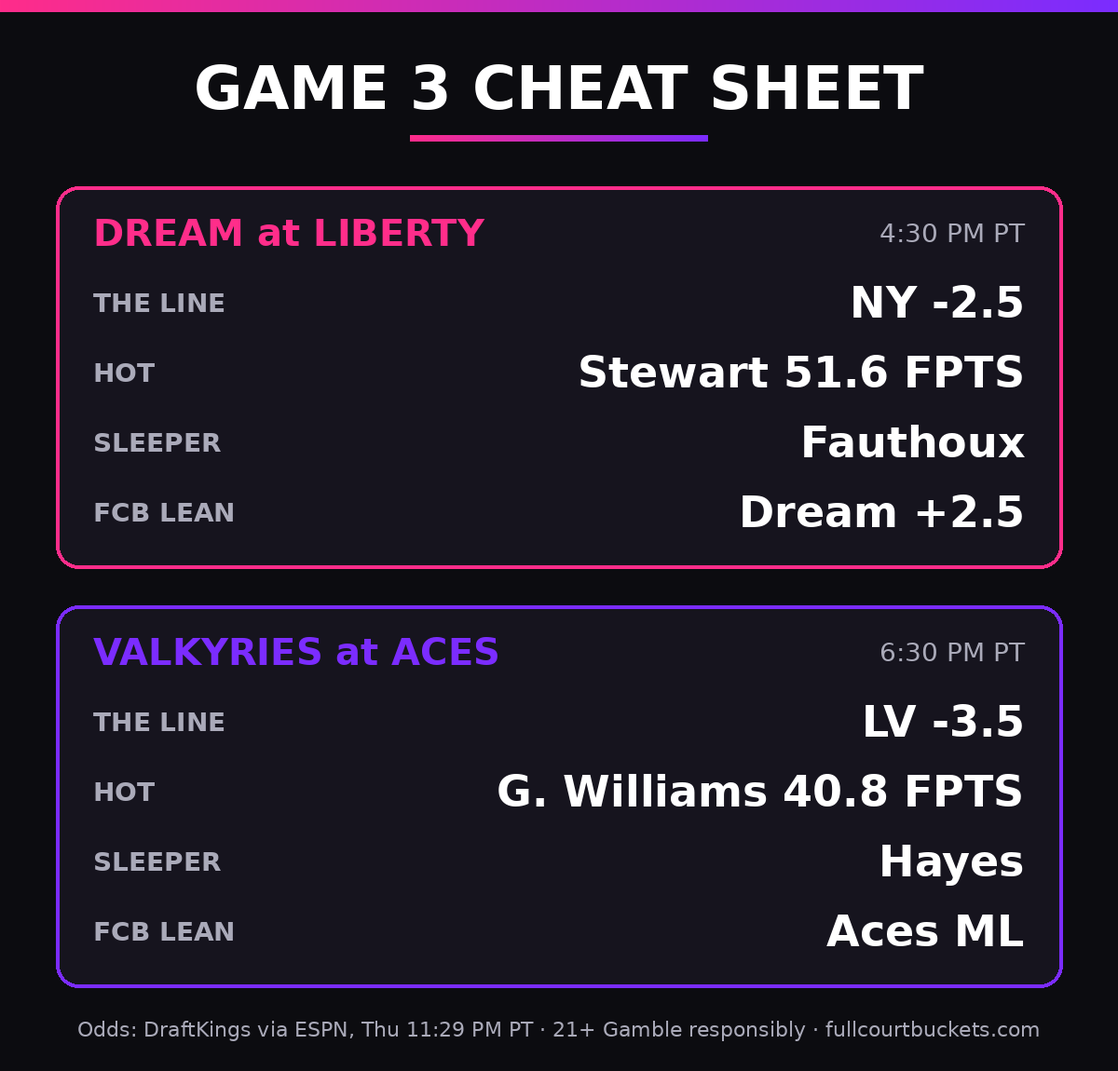
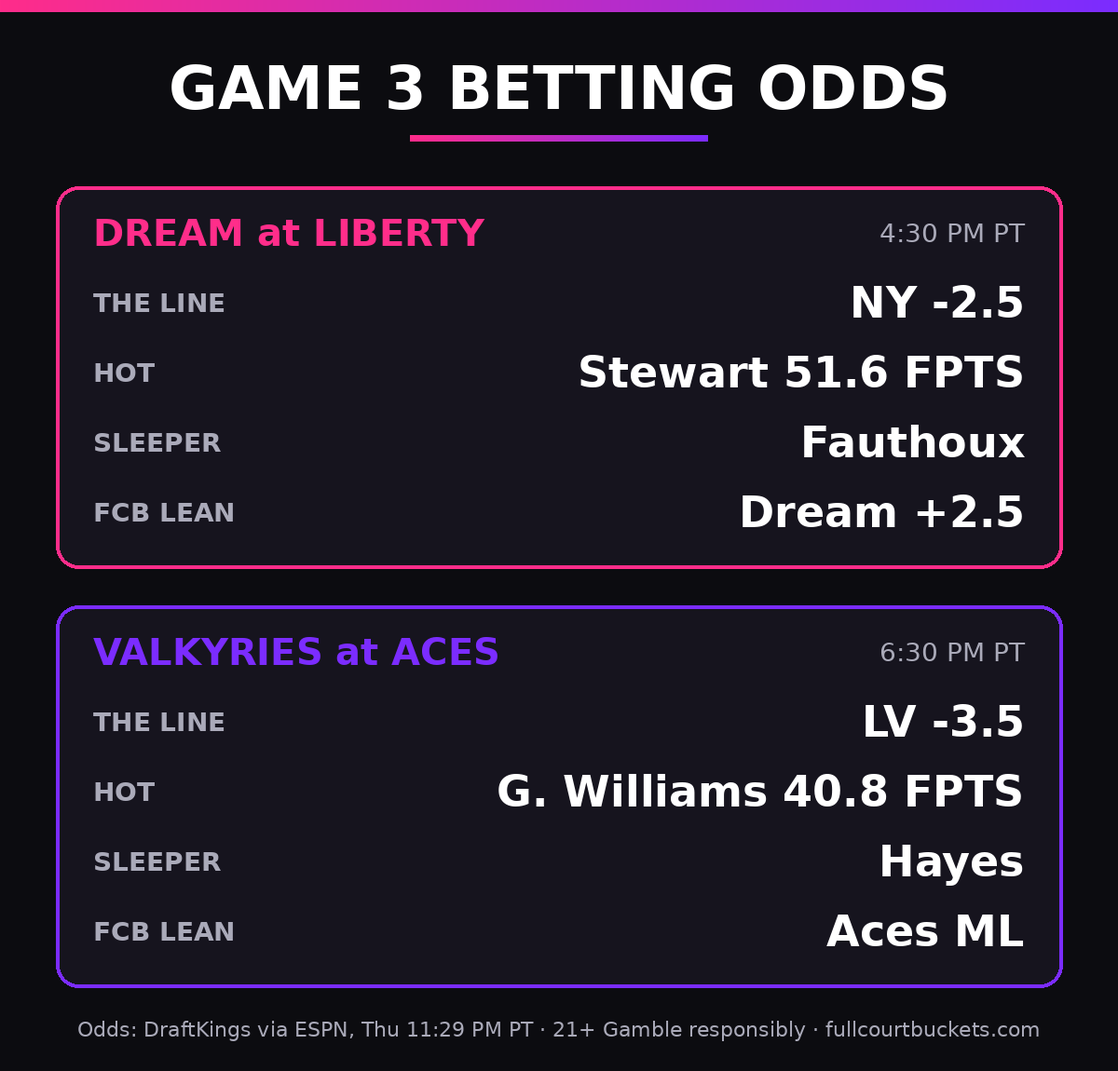
Retitle the Game 3 board to Betting Odds and split the bettors section around it.
New board bytes (same file name), regenerated webp, and paragraph, board, paragraph. Odds stay dated as of Thu Oct 8, 2026, 11:29 PM PT with 'lines may move', both ESPN game links and the 21+ / 1-800-GAMBLER line. Review card updated.

Changed region(s): [[0.1542, 0.0609, 0.8633, 0.1217]]

diff --git a/news/semis-game-3-preview/index.html b/news/semis-game-3-preview/index.html
@@ -51,7 +51,7 @@
 <header><div class="shell nav"><a class="brand" href="/"><picture><source srcset="/logo.webp" type="image/webp"><img src="/logo.png" alt="Full Court Buckets" width="760" height="507" decoding="async" loading="lazy"></picture></a><nav class="site-nav" aria-label="Main"><button type="button" class="site-nav-toggle" aria-expanded="false" aria-controls="site-nav-menu"><span class="site-nav-bars" aria-hidden="true"></span><span class="site-nav-toggle-label">Menu</span></button><ul id="site-nav-menu"><li><a href="/">Home</a></li><li class="site-nav-branch"><a href="/wnba/">Players</a><button type="button" class="site-nav-subtoggle" aria-expanded="false" aria-controls="site-nav-sub-players" data-section="Players"><span class="site-nav-chevron" aria-hidden="true"></span><span class="site-nav-subtoggle-label">Show Players menu</span></button><ul id="site-nav-sub-players"><li><a href="/wnba/">Player index, A to Z</a></li><li><a href="/wnba/aja-wilson/">A&#x27;ja Wilson</a></li><li><a href="/wnba/caitlin-clark/">Caitlin Clark</a></li><li><a href="/wnba/angel-reese/">Angel Reese</a></li><li><a href="/wnba/paige-bueckers/">Paige Bueckers</a></li><li><a href="/wnba/breanna-stewart/">Breanna Stewart</a></li><li><a href="/wnba/sabrina-ionescu/">Sabrina Ionescu</a></li></ul></li><li class="site-nav-branch"><a href="/wnba/teams/">Teams</a><button type="button" class="site-nav-subtoggle" aria-expanded="false" aria-controls="site-nav-sub-teams" data-section="Teams"><span class="site-nav-chevron" aria-hidden="true"></span><span class="site-nav-subtoggle-label">Show Teams menu</span></button><ul id="site-nav-sub-teams"><li><a href="/wnba/teams/atlanta-dream/">Atlanta Dream</a></li><li><a href="/wnba/teams/chicago-sky/">Chicago Sky</a></li><li><a href="/wnba/teams/connecticut-sun/">Connecticut Sun</a></li><li><a href="/wnba/teams/dallas-wings/">Dallas Wings</a></li><li><a href="/wnba/teams/golden-state-valkyries/">Golden State Valkyries</a></li><li><a href="/wnba/teams/indiana-fever/">Indiana Fever</a></li><li><a href="/wnba/teams/las-vegas-aces/">Las Vegas Aces</a></li><li><a href="/wnba/teams/los-angeles-sparks/">Los Angeles Sparks</a></li><li><a href="/wnba/teams/minnesota-lynx/">Minnesota Lynx</a></li><li><a href="/wnba/teams/new-york-liberty/">New York Liberty</a></li><li><a href="/wnba/teams/phoenix-mercury/">Phoenix Mercury</a></li><li><a href="/wnba/teams/portland-fire/">Portland Fire</a></li><li><a href="/wnba/teams/seattle-storm/">Seattle Storm</a></li><li><a href="/wnba/teams/toronto-tempo/">Toronto Tempo</a></li><li><a href="/wnba/teams/washington-mystics/">Washington Mystics</a></li></ul></li><li><a href="/standings/">Standings</a></li><li><a href="/news/">News</a></li><li class="site-nav-branch"><a href="/about/">About</a><button type="button" class="site-nav-subtoggle" aria-expanded="false" aria-controls="site-nav-sub-about" data-section="About"><span class="site-nav-chevron" aria-hidden="true"></span><span class="site-nav-subtoggle-label">Show About menu</span></button><ul id="site-nav-sub-about"><li><a href="/contact/">Contact</a></li></ul></li></ul></nav><a class="watch-btn nav-watch" href="/#latest">Latest Stories</a></div></header>
 <div class="ticker"><div class="shell"><div class="ticker-label">Now</div><div class="ticker-text">Game 3s Friday. Dream lead Liberty 2-0. Valkyries lead Aces 2-0.</div></div></div>
 <main class="shell article-wrap">
-<nav class="breadcrumbs" aria-label="Breadcrumb"><a href="/">Home</a><span aria-hidden="true">/</span><a href="/news/">News</a><span aria-hidden="true">/</span><span>Semis Game 3 Preview: Can the Liberty and Aces Do What No WNBA Team Has Done?</span></nav><article class="article"><div class="meta-row"><span class="cat">WNBA Playoffs</span><span class="divider"></span><span>Full Court Buckets</span></div><h1>Semis Game 3 Preview: Can the Liberty and Aces Do What No WNBA Team Has Done?</h1><figure class="lead-photo"><img src="/images/articles/semis-game-3-preview/hero-1200.webp" alt="Jordin Canada of the Atlanta Dream lines up a free throw at Target Center in Minneapolis" style="object-position:center 25%" srcset="/images/articles/semis-game-3-preview/hero-1200.webp 1200w, /images/articles/semis-game-3-preview/hero-2x.webp 2000w" sizes="(max-width: 900px) calc(94vw - 40px), 842px" width="1200" height="675" decoding="async" fetchpriority="high"><figcaption>Jordin Canada with the Dream at Target Center on May 27, 2026, not from this series. Photo: <a href="https://commons.wikimedia.org/wiki/File:260527_Lynx_Dream_JohnMc210_(55298398176).jpg" target="_blank" rel="noopener">John Mac</a> (<a href="https://creativecommons.org/licenses/by-sa/4.0/" target="_blank" rel="noopener">CC BY-SA 4.0</a>)</figcaption></figure><div class="byline-row"><a class="byline" href="/authors/ryan-moalemi/"><picture><source srcset="/images/authors/ryan-moalemi-photo-byline.webp" type="image/webp"><img src="/images/authors/ryan-moalemi-photo-byline.jpg?v=d51e90ea6c01" alt="Ryan Moalemi" width="80" height="80" decoding="async" loading="lazy"></picture><span>By Ryan Moalemi</span></a><time class="article-date" datetime="2026-10-09">October 9, 2026</time></div><p class="lead">The <a class="inline-link" href="/wnba/teams/new-york-liberty/" target="_blank" rel="noopener">New York Liberty</a> have won more quarters than the <a class="inline-link" href="/wnba/teams/atlanta-dream/" target="_blank" rel="noopener">Atlanta Dream</a> in this series, four to two, and they're still down 0-2 (<a href="https://www.espn.com/wnba/boxscore/_/gameId/401918295" target="_blank" rel="noopener">Game 1</a>, <a href="https://www.espn.com/wnba/boxscore/_/gameId/401918297" target="_blank" rel="noopener">Game 2</a>). One column in the box score explains it, and it's the same column that decides whether Brooklyn sees a Game 4.</p><p>Both semifinal Game 3s are Friday, and the stakes are simple. Teams that take a 2-0 lead in a best-of-five WNBA series are <a href="https://www.espn.com/wnba/story/_/id/50128556/2026-wnba-playoffs-semifinals-game-2-scores-analysis-keys" target="_blank" rel="noopener">19-0 all time</a>. The Liberty and the <a class="inline-link" href="/wnba/teams/las-vegas-aces/" target="_blank" rel="noopener">Las Vegas Aces</a> are both trying to be the first team to come back.</p><h2 class="section-title">Dream at Liberty: Friday, 4:30 PM PT, Barclays Center, ESPN2</h2><figure class="stat-board"><picture><source srcset="/images/articles/semis-game-3-preview/board-dream-liberty-series.webp" type="image/webp"><img src="/images/articles/semis-game-3-preview/board-dream-liberty-series.png" alt="Dream vs Liberty, Games 1 and 2 combined: turnovers 22 to 38, points off turnovers 60 to 24, offensive rebounds 20 to 12, field goal attempts 155 to 129, free throws made 39 to 31, fast-break points 29 to 8, bench points 42 to 29. New York shot 48.8% to Atlanta&#x27;s 42.6%." width="1200" height="1234" decoding="async" loading="lazy"></picture><figcaption>Dream vs Liberty, Games 1 and 2 combined. Turnovers include team turnovers. Source: Full Court Buckets game data, checked against ESPN box scores.</figcaption></figure><p><strong>What decided Games 1 and 2.</strong> Ball security, both nights. New York has turned it over 38 times in two games, counting team turnovers. Atlanta has 22. The Dream have scored 60 points off those giveaways while the Liberty have scored 24 (<a href="https://www.espn.com/wnba/boxscore/_/gameId/401918295" target="_blank" rel="noopener">G1 box</a>, <a href="https://www.espn.com/wnba/boxscore/_/gameId/401918297" target="_blank" rel="noopener">G2 box</a>). That's a 36-point swing in a series Atlanta leads by a combined 13.</p><p>Add 20 offensive boards to New York's 12 and Atlanta has taken 155 shots to New York's 129. So yes, the Liberty are shooting 48.8% to Atlanta's 42.6%. It doesn't matter when the other team gets 26 extra looks. The Dream are also up 29-8 in fast-break points, which is what happens when your misses turn into layups the other way.</p><p><strong>The key matchup.</strong> <a class="inline-link" href="/wnba/angel-reese/" target="_blank" rel="noopener">Angel Reese</a> against that New York frontcourt. Reese is plus-18 in the series, the best mark on either team, with <a class="inline-link" href="/wnba/jordin-canada/" target="_blank" rel="noopener">Jordin Canada</a> at plus-17 and <a class="inline-link" href="/wnba/naz-hillmon/" target="_blank" rel="noopener">Naz Hillmon</a> at plus-16. On the other side, <a class="inline-link" href="/wnba/marine-fauthoux/" target="_blank" rel="noopener">Marine Fauthoux</a> is the only Liberty player with a positive plus-minus (plus-6). Starters <a class="inline-link" href="/wnba/leonie-fiebich/" target="_blank" rel="noopener">Leonie Fiebich</a> and <a class="inline-link" href="/wnba/pauline-astier/" target="_blank" rel="noopener">Pauline Astier</a> are both minus-10.</p><p>New York's stars are scoring. <a class="inline-link" href="/wnba/breanna-stewart/" target="_blank" rel="noopener">Breanna Stewart</a> dropped 35 in Game 2 and <a class="inline-link" href="/wnba/sabrina-ionescu/" target="_blank" rel="noopener">Sabrina Ionescu</a> had 27 in Game 1. But Ionescu also had 5 turnovers in Game 1, and <a class="inline-link" href="/wnba/jonquel-jones/" target="_blank" rel="noopener">Jonquel Jones</a> had 6 in Game 2.</p><p>Atlanta's bench has outscored New York's 42-29, and 23 of those came from <a class="inline-link" href="/wnba/dewanna-bonner/" target="_blank" rel="noopener">DeWanna Bonner</a> in Game 1. And they did most of this without their leading scorer. <a class="inline-link" href="/wnba/allisha-gray/" target="_blank" rel="noopener">Allisha Gray</a> hurt her left shooting hand in Game 1, played 11 minutes and missed Game 2. As of Thursday evening, she was <a href="https://www.espn.com/wnba/story/_/id/50135364/dream-guard-allisha-gray-questionable-game-3" target="_blank" rel="noopener">listed as questionable</a> for Game 3.</p><p><strong>What each team has to do.</strong> New York needs single-digit turnovers. That's it. Shoot 48% with 10 giveaways and this is a series again. Atlanta needs to keep crashing and keep running, because the half-court numbers favor New York.</p><p><strong>The pick: Dream win and head to the Finals.</strong> New York has given it away at least 17 times in both games, and that's not a shooting slump that flips on the flight home. It's a habit. Get Gray back even for 20 minutes and Atlanta is done in three.</p><h2 class="section-title">Valkyries at Aces: Friday, 6:30 PM PT, Michelob ULTRA Arena, Peacock and NBCSN</h2><figure class="stat-board"><picture><source srcset="/images/articles/semis-game-3-preview/board-valkyries-aces-series.webp" type="image/webp"><img src="/images/articles/semis-game-3-preview/board-valkyries-aces-series.png" alt="Valkyries vs Aces, Games 1 and 2 combined: offensive rebounds 27 to 8, total rebounds 82 to 50, bench points 61 to 21, points in the paint 54 to 42, fast-break points 16 to 3, free throws made 37 to 34, turnovers 29 to 18. First halves Valkyries plus 14, second halves Aces plus 1." width="1200" height="1234" decoding="async" loading="lazy"></picture><figcaption>Valkyries vs Aces, Games 1 and 2 combined. Turnovers include team turnovers. Source: Full Court Buckets game data, checked against ESPN box scores.</figcaption></figure><p><strong>What decided Games 1 and 2.</strong> The glass. The <a class="inline-link" href="/wnba/teams/golden-state-valkyries/" target="_blank" rel="noopener">Golden State Valkyries</a> have 27 offensive rebounds to Vegas's 8, and they've outrebounded the Aces 82-50 (<a href="https://www.espn.com/wnba/boxscore/_/gameId/401918296" target="_blank" rel="noopener">G1 box</a>, <a href="https://www.espn.com/wnba/boxscore/_/gameId/401918298" target="_blank" rel="noopener">G2 box</a>). <a class="inline-link" href="/wnba/kiah-stokes/" target="_blank" rel="noopener">Kiah Stokes</a> hasn't scored a point in this series and still has 21 rebounds.</p><p>Then there's the bench. Golden State's reserves have outscored Vegas's 61-21. <a class="inline-link" href="/wnba/tiffany-hayes/" target="_blank" rel="noopener">Tiffany Hayes</a> has 24 of those, including 21 in 17 minutes in Game 2. <a class="inline-link" href="/wnba/janelle-salaun/" target="_blank" rel="noopener">Janelle Salaun</a> is plus-18 in just 10 minutes, and <a class="inline-link" href="/wnba/kaitlyn-chen/" target="_blank" rel="noopener">Kaitlyn Chen</a> is plus-11.</p><p>Here's the stat that should scare Golden State. The Valkyries have turned it over 29 times to Vegas's 18, counting team turnovers. They're winning anyway because Vegas hasn't punished it, scoring 24 points off those turnovers to Golden State's 27.</p><figure class="stat-board"><picture><source srcset="/images/articles/semis-game-3-preview/board-quarter-margins.webp" type="image/webp"><img src="/images/articles/semis-game-3-preview/board-quarter-margins.png" alt="Quarter-by-quarter winning margins in Games 1 and 2 of both semifinals. Dream vs Liberty: Game 1 Liberty plus 3, even, Dream plus 17, Liberty plus 4. Game 2 even, Dream plus 2, Liberty plus 1, Liberty plus 1, Dream plus 3 in overtime. Valkyries vs Aces: Game 1 Valkyries plus 4, Aces plus 1, Valkyries plus 5, Valkyries plus 3. Game 2 Valkyries plus 8, Valkyries plus 3, even, Aces plus 9." width="1200" height="1090" decoding="async" loading="lazy"></picture><figcaption>Who won each quarter in Games 1 and 2. Source: Full Court Buckets game data, checked against ESPN box scores.</figcaption></figure><p><strong>The key matchup.</strong> Golden State's starts against Vegas's finishes. The Valkyries are plus-14 in first halves. In second halves, the Aces are plus-1. Golden State won the first quarter of Game 2 by 8, and Vegas answered by winning the fourth by 9 (<a href="https://www.espn.com/wnba/boxscore/_/gameId/401918298" target="_blank" rel="noopener">G2 box</a>).</p><p><a class="inline-link" href="/wnba/aja-wilson/" target="_blank" rel="noopener">A'ja Wilson</a> has 48 points in two games and is still minus-11. <a class="inline-link" href="/wnba/chelsea-gray/" target="_blank" rel="noopener">Chelsea Gray</a> is also minus-11. The Aces' best plus-minus belongs to <a class="inline-link" href="/wnba/kalani-brown/" target="_blank" rel="noopener">Kalani Brown</a> at plus-7, while <a class="inline-link" href="/wnba/brianna-turner/" target="_blank" rel="noopener">Brianna Turner</a> is minus-16 and <a class="inline-link" href="/wnba/kierstan-bell/" target="_blank" rel="noopener">Kierstan Bell</a> is minus-15.</p><p>Injuries matter here. As of Thursday evening, ESPN listed <a class="inline-link" href="/wnba/jewell-loyd/" target="_blank" rel="noopener">Jewell Loyd</a> and <a class="inline-link" href="/wnba/stephanie-talbot/" target="_blank" rel="noopener">Stephanie Talbot</a> as day-to-day with left leg injuries (<a href="https://www.espn.com/wnba/game/_/gameId/401918300" target="_blank" rel="noopener">ESPN game page</a>). Loyd didn't play in Game 2. <a class="inline-link" href="/wnba/dana-evans/" target="_blank" rel="noopener">Dana Evans</a> wasn't on ESPN's injury list when we checked, and she played 18 minutes in Game 2.</p><p><strong>What each team has to do.</strong> Vegas has to box out. You can't give up 17 offensive rebounds like they did in Game 1 and survive. Golden State has to clean up the turnovers and get the same punch from <a class="inline-link" href="/wnba/gabby-williams/" target="_blank" rel="noopener">Gabby Williams</a>, who has 45 points in two games, and <a class="inline-link" href="/wnba/kayla-thornton/" target="_blank" rel="noopener">Kayla Thornton</a>.</p><p><strong>The pick: Aces win Game 3.</strong> The <a href="https://apnews.com/article/valkyries-aces-wnba-semifinals-84c8603ed5268f8045e595c2ea0f4a32" target="_blank" rel="noopener">defending champs</a> won the second half of this series, swept the <a href="https://www.espn.com/wnba/game/_/gameId/401918300" target="_blank" rel="noopener">regular-season meetings</a> 3-0, and get Michelob ULTRA Arena behind them. In Game 2 they outshot Golden State 44% to 41% and had the ball down two at the end. If Wilson and Gray stop digging out of holes, Vegas extends this. If the Aces lose the glass 52-25 like they did in Game 1, nothing else matters.</p><h2 class="section-title">For the bettors and fantasy players</h2><figure class="stat-board"><picture><source srcset="/images/articles/semis-game-3-preview/board-game3-cheat-sheet.webp" type="image/webp"><img src="/images/articles/semis-game-3-preview/board-game3-cheat-sheet.png" alt="Game 3 cheat sheet. Dream at Liberty, 4:30 PM PT: the line is Liberty minus 2.5, the hot fantasy play is Breanna Stewart at 51.6 DraftKings fantasy points per game, the sleeper is Marine Fauthoux, and the Full Court Buckets lean is Dream plus 2.5. Valkyries at Aces, 6:30 PM PT: the line is Aces minus 3.5, the hot play is Gabby Williams at 40.8 fantasy points per game, the sleeper is Tiffany Hayes, and the lean is the Aces on the moneyline." decoding="async" loading="lazy" width="1200" height="1150"></picture><figcaption>DraftKings odds as listed on ESPN, as of Thursday, Oct. 8, 2026, 11:29 PM PT. Lines may move. Fantasy points per game use DraftKings scoring on Games 1 and 2 from our box scores, checked against ESPN. Leans are opinions. 21+. Gamble responsibly. 1-800-GAMBLER.</figcaption></figure><p>The books flipped both series, with the Liberty favored by 2.5 and the Aces by 3.5 (DraftKings via ESPN for <a href="https://www.espn.com/wnba/game/_/gameId/401918299" target="_blank" rel="noopener">Dream-Liberty</a> and <a href="https://www.espn.com/wnba/game/_/gameId/401918300" target="_blank" rel="noopener">Valkyries-Aces</a>, as of Thursday, Oct. 8, at 11:29 PM PT; lines may move), even though the Dream and Valkyries are both 2-0 against the spread. Stewart is the hottest fantasy play at 51.6 DraftKings points a game. My sleepers: Fauthoux and Hayes. My leans, just opinions: Dream +2.5 and Aces moneyline. Gray was questionable as of Thursday night. 21+. Gamble responsibly. 1-800-GAMBLER.</p><p class="box-score">Box scores: <a href="https://www.espn.com/wnba/boxscore/_/gameId/401918295" target="_blank" rel="noopener">Dream-Liberty Game 1</a>, <a href="https://www.espn.com/wnba/boxscore/_/gameId/401918297" target="_blank" rel="noopener">Game 2</a>; <a href="https://www.espn.com/wnba/boxscore/_/gameId/401918296" target="_blank" rel="noopener">Valkyries-Aces Game 1</a>, <a href="https://www.espn.com/wnba/boxscore/_/gameId/401918298" target="_blank" rel="noopener">Game 2</a> (ESPN).</p><p class="how-made">How this story was made: Ryan Moalemi picked the story and the angle. Full Court Buckets gathers its own game data and verifies it against official box scores. AI tools drafted it from that data and the sources linked above so it could post the same night, then Ryan reviewed and edited it before publishing. <a href="/how-we-make-full-court-buckets/" target="_blank" rel="noopener">How we make Full Court Buckets</a></p><p class="brand-sign">Full Court Buckets &middot; WNBA News. Analysis. Commentary.</p></article>
+<nav class="breadcrumbs" aria-label="Breadcrumb"><a href="/">Home</a><span aria-hidden="true">/</span><a href="/news/">News</a><span aria-hidden="true">/</span><span>Semis Game 3 Preview: Can the Liberty and Aces Do What No WNBA Team Has Done?</span></nav><article class="article"><div class="meta-row"><span class="cat">WNBA Playoffs</span><span class="divider"></span><span>Full Court Buckets</span></div><h1>Semis Game 3 Preview: Can the Liberty and Aces Do What No WNBA Team Has Done?</h1><figure class="lead-photo"><img src="/images/articles/semis-game-3-preview/hero-1200.webp" alt="Jordin Canada of the Atlanta Dream lines up a free throw at Target Center in Minneapolis" style="object-position:center 25%" srcset="/images/articles/semis-game-3-preview/hero-1200.webp 1200w, /images/articles/semis-game-3-preview/hero-2x.webp 2000w" sizes="(max-width: 900px) calc(94vw - 40px), 842px" width="1200" height="675" decoding="async" fetchpriority="high"><figcaption>Jordin Canada with the Dream at Target Center on May 27, 2026, not from this series. Photo: <a href="https://commons.wikimedia.org/wiki/File:260527_Lynx_Dream_JohnMc210_(55298398176).jpg" target="_blank" rel="noopener">John Mac</a> (<a href="https://creativecommons.org/licenses/by-sa/4.0/" target="_blank" rel="noopener">CC BY-SA 4.0</a>)</figcaption></figure><div class="byline-row"><a class="byline" href="/authors/ryan-moalemi/"><picture><source srcset="/images/authors/ryan-moalemi-photo-byline.webp" type="image/webp"><img src="/images/authors/ryan-moalemi-photo-byline.jpg?v=d51e90ea6c01" alt="Ryan Moalemi" width="80" height="80" decoding="async" loading="lazy"></picture><span>By Ryan Moalemi</span></a><time class="article-date" datetime="2026-10-09">October 9, 2026</time></div><p class="lead">The <a class="inline-link" href="/wnba/teams/new-york-liberty/" target="_blank" rel="noopener">New York Liberty</a> have won more quarters than the <a class="inline-link" href="/wnba/teams/atlanta-dream/" target="_blank" rel="noopener">Atlanta Dream</a> in this series, four to two, and they're still down 0-2 (<a href="https://www.espn.com/wnba/boxscore/_/gameId/401918295" target="_blank" rel="noopener">Game 1</a>, <a href="https://www.espn.com/wnba/boxscore/_/gameId/401918297" target="_blank" rel="noopener">Game 2</a>). One column in the box score explains it, and it's the same column that decides whether Brooklyn sees a Game 4.</p><p>Both semifinal Game 3s are Friday, and the stakes are simple. Teams that take a 2-0 lead in a best-of-five WNBA series are <a href="https://www.espn.com/wnba/story/_/id/50128556/2026-wnba-playoffs-semifinals-game-2-scores-analysis-keys" target="_blank" rel="noopener">19-0 all time</a>. The Liberty and the <a class="inline-link" href="/wnba/teams/las-vegas-aces/" target="_blank" rel="noopener">Las Vegas Aces</a> are both trying to be the first team to come back.</p><h2 class="section-title">Dream at Liberty: Friday, 4:30 PM PT, Barclays Center, ESPN2</h2><figure class="stat-board"><picture><source srcset="/images/articles/semis-game-3-preview/board-dream-liberty-series.webp" type="image/webp"><img src="/images/articles/semis-game-3-preview/board-dream-liberty-series.png" alt="Dream vs Liberty, Games 1 and 2 combined: turnovers 22 to 38, points off turnovers 60 to 24, offensive rebounds 20 to 12, field goal attempts 155 to 129, free throws made 39 to 31, fast-break points 29 to 8, bench points 42 to 29. New York shot 48.8% to Atlanta&#x27;s 42.6%." width="1200" height="1234" decoding="async" loading="lazy"></picture><figcaption>Dream vs Liberty, Games 1 and 2 combined. Turnovers include team turnovers. Source: Full Court Buckets game data, checked against ESPN box scores.</figcaption></figure><p><strong>What decided Games 1 and 2.</strong> Ball security, both nights. New York has turned it over 38 times in two games, counting team turnovers. Atlanta has 22. The Dream have scored 60 points off those giveaways while the Liberty have scored 24 (<a href="https://www.espn.com/wnba/boxscore/_/gameId/401918295" target="_blank" rel="noopener">G1 box</a>, <a href="https://www.espn.com/wnba/boxscore/_/gameId/401918297" target="_blank" rel="noopener">G2 box</a>). That's a 36-point swing in a series Atlanta leads by a combined 13.</p><p>Add 20 offensive boards to New York's 12 and Atlanta has taken 155 shots to New York's 129. So yes, the Liberty are shooting 48.8% to Atlanta's 42.6%. It doesn't matter when the other team gets 26 extra looks. The Dream are also up 29-8 in fast-break points, which is what happens when your misses turn into layups the other way.</p><p><strong>The key matchup.</strong> <a class="inline-link" href="/wnba/angel-reese/" target="_blank" rel="noopener">Angel Reese</a> against that New York frontcourt. Reese is plus-18 in the series, the best mark on either team, with <a class="inline-link" href="/wnba/jordin-canada/" target="_blank" rel="noopener">Jordin Canada</a> at plus-17 and <a class="inline-link" href="/wnba/naz-hillmon/" target="_blank" rel="noopener">Naz Hillmon</a> at plus-16. On the other side, <a class="inline-link" href="/wnba/marine-fauthoux/" target="_blank" rel="noopener">Marine Fauthoux</a> is the only Liberty player with a positive plus-minus (plus-6). Starters <a class="inline-link" href="/wnba/leonie-fiebich/" target="_blank" rel="noopener">Leonie Fiebich</a> and <a class="inline-link" href="/wnba/pauline-astier/" target="_blank" rel="noopener">Pauline Astier</a> are both minus-10.</p><p>New York's stars are scoring. <a class="inline-link" href="/wnba/breanna-stewart/" target="_blank" rel="noopener">Breanna Stewart</a> dropped 35 in Game 2 and <a class="inline-link" href="/wnba/sabrina-ionescu/" target="_blank" rel="noopener">Sabrina Ionescu</a> had 27 in Game 1. But Ionescu also had 5 turnovers in Game 1, and <a class="inline-link" href="/wnba/jonquel-jones/" target="_blank" rel="noopener">Jonquel Jones</a> had 6 in Game 2.</p><p>Atlanta's bench has outscored New York's 42-29, and 23 of those came from <a class="inline-link" href="/wnba/dewanna-bonner/" target="_blank" rel="noopener">DeWanna Bonner</a> in Game 1. And they did most of this without their leading scorer. <a class="inline-link" href="/wnba/allisha-gray/" target="_blank" rel="noopener">Allisha Gray</a> hurt her left shooting hand in Game 1, played 11 minutes and missed Game 2. As of Thursday evening, she was <a href="https://www.espn.com/wnba/story/_/id/50135364/dream-guard-allisha-gray-questionable-game-3" target="_blank" rel="noopener">listed as questionable</a> for Game 3.</p><p><strong>What each team has to do.</strong> New York needs single-digit turnovers. That's it. Shoot 48% with 10 giveaways and this is a series again. Atlanta needs to keep crashing and keep running, because the half-court numbers favor New York.</p><p><strong>The pick: Dream win and head to the Finals.</strong> New York has given it away at least 17 times in both games, and that's not a shooting slump that flips on the flight home. It's a habit. Get Gray back even for 20 minutes and Atlanta is done in three.</p><h2 class="section-title">Valkyries at Aces: Friday, 6:30 PM PT, Michelob ULTRA Arena, Peacock and NBCSN</h2><figure class="stat-board"><picture><source srcset="/images/articles/semis-game-3-preview/board-valkyries-aces-series.webp" type="image/webp"><img src="/images/articles/semis-game-3-preview/board-valkyries-aces-series.png" alt="Valkyries vs Aces, Games 1 and 2 combined: offensive rebounds 27 to 8, total rebounds 82 to 50, bench points 61 to 21, points in the paint 54 to 42, fast-break points 16 to 3, free throws made 37 to 34, turnovers 29 to 18. First halves Valkyries plus 14, second halves Aces plus 1." width="1200" height="1234" decoding="async" loading="lazy"></picture><figcaption>Valkyries vs Aces, Games 1 and 2 combined. Turnovers include team turnovers. Source: Full Court Buckets game data, checked against ESPN box scores.</figcaption></figure><p><strong>What decided Games 1 and 2.</strong> The glass. The <a class="inline-link" href="/wnba/teams/golden-state-valkyries/" target="_blank" rel="noopener">Golden State Valkyries</a> have 27 offensive rebounds to Vegas's 8, and they've outrebounded the Aces 82-50 (<a href="https://www.espn.com/wnba/boxscore/_/gameId/401918296" target="_blank" rel="noopener">G1 box</a>, <a href="https://www.espn.com/wnba/boxscore/_/gameId/401918298" target="_blank" rel="noopener">G2 box</a>). <a class="inline-link" href="/wnba/kiah-stokes/" target="_blank" rel="noopener">Kiah Stokes</a> hasn't scored a point in this series and still has 21 rebounds.</p><p>Then there's the bench. Golden State's reserves have outscored Vegas's 61-21. <a class="inline-link" href="/wnba/tiffany-hayes/" target="_blank" rel="noopener">Tiffany Hayes</a> has 24 of those, including 21 in 17 minutes in Game 2. <a class="inline-link" href="/wnba/janelle-salaun/" target="_blank" rel="noopener">Janelle Salaun</a> is plus-18 in just 10 minutes, and <a class="inline-link" href="/wnba/kaitlyn-chen/" target="_blank" rel="noopener">Kaitlyn Chen</a> is plus-11.</p><p>Here's the stat that should scare Golden State. The Valkyries have turned it over 29 times to Vegas's 18, counting team turnovers. They're winning anyway because Vegas hasn't punished it, scoring 24 points off those turnovers to Golden State's 27.</p><figure class="stat-board"><picture><source srcset="/images/articles/semis-game-3-preview/board-quarter-margins.webp" type="image/webp"><img src="/images/articles/semis-game-3-preview/board-quarter-margins.png" alt="Quarter-by-quarter winning margins in Games 1 and 2 of both semifinals. Dream vs Liberty: Game 1 Liberty plus 3, even, Dream plus 17, Liberty plus 4. Game 2 even, Dream plus 2, Liberty plus 1, Liberty plus 1, Dream plus 3 in overtime. Valkyries vs Aces: Game 1 Valkyries plus 4, Aces plus 1, Valkyries plus 5, Valkyries plus 3. Game 2 Valkyries plus 8, Valkyries plus 3, even, Aces plus 9." width="1200" height="1090" decoding="async" loading="lazy"></picture><figcaption>Who won each quarter in Games 1 and 2. Source: Full Court Buckets game data, checked against ESPN box scores.</figcaption></figure><p><strong>The key matchup.</strong> Golden State's starts against Vegas's finishes. The Valkyries are plus-14 in first halves. In second halves, the Aces are plus-1. Golden State won the first quarter of Game 2 by 8, and Vegas answered by winning the fourth by 9 (<a href="https://www.espn.com/wnba/boxscore/_/gameId/401918298" target="_blank" rel="noopener">G2 box</a>).</p><p><a class="inline-link" href="/wnba/aja-wilson/" target="_blank" rel="noopener">A'ja Wilson</a> has 48 points in two games and is still minus-11. <a class="inline-link" href="/wnba/chelsea-gray/" target="_blank" rel="noopener">Chelsea Gray</a> is also minus-11. The Aces' best plus-minus belongs to <a class="inline-link" href="/wnba/kalani-brown/" target="_blank" rel="noopener">Kalani Brown</a> at plus-7, while <a class="inline-link" href="/wnba/brianna-turner/" target="_blank" rel="noopener">Brianna Turner</a> is minus-16 and <a class="inline-link" href="/wnba/kierstan-bell/" target="_blank" rel="noopener">Kierstan Bell</a> is minus-15.</p><p>Injuries matter here. As of Thursday evening, ESPN listed <a class="inline-link" href="/wnba/jewell-loyd/" target="_blank" rel="noopener">Jewell Loyd</a> and <a class="inline-link" href="/wnba/stephanie-talbot/" target="_blank" rel="noopener">Stephanie Talbot</a> as day-to-day with left leg injuries (<a href="https://www.espn.com/wnba/game/_/gameId/401918300" target="_blank" rel="noopener">ESPN game page</a>). Loyd didn't play in Game 2. <a class="inline-link" href="/wnba/dana-evans/" target="_blank" rel="noopener">Dana Evans</a> wasn't on ESPN's injury list when we checked, and she played 18 minutes in Game 2.</p><p><strong>What each team has to do.</strong> Vegas has to box out. You can't give up 17 offensive rebounds like they did in Game 1 and survive. Golden State has to clean up the turnovers and get the same punch from <a class="inline-link" href="/wnba/gabby-williams/" target="_blank" rel="noopener">Gabby Williams</a>, who has 45 points in two games, and <a class="inline-link" href="/wnba/kayla-thornton/" target="_blank" rel="noopener">Kayla Thornton</a>.</p><p><strong>The pick: Aces win Game 3.</strong> The <a href="https://apnews.com/article/valkyries-aces-wnba-semifinals-84c8603ed5268f8045e595c2ea0f4a32" target="_blank" rel="noopener">defending champs</a> won the second half of this series, swept the <a href="https://www.espn.com/wnba/game/_/gameId/401918300" target="_blank" rel="noopener">regular-season meetings</a> 3-0, and get Michelob ULTRA Arena behind them. In Game 2 they outshot Golden State 44% to 41% and had the ball down two at the end. If Wilson and Gray stop digging out of holes, Vegas extends this. If the Aces lose the glass 52-25 like they did in Game 1, nothing else matters.</p><h2 class="section-title">For the bettors and fantasy players</h2><p>The books flipped both series toward the teams trailing at home. The Liberty are 2.5-point favorites and the Aces are giving 3.5 (DraftKings via ESPN for <a href="https://www.espn.com/wnba/game/_/gameId/401918299" target="_blank" rel="noopener">Dream-Liberty</a> and <a href="https://www.espn.com/wnba/game/_/gameId/401918300" target="_blank" rel="noopener">Valkyries-Aces</a>, as of Thursday, Oct. 8, at 11:29 PM PT; lines may move). That's a bold call, because the Dream and Valkyries are both 2-0 against the spread. The totals sit at 172.5 and 156.5. Both Dream-Liberty games went over, while Valkyries-Aces split 1-1.</p><figure class="stat-board"><picture><source srcset="/images/articles/semis-game-3-preview/board-game3-cheat-sheet.webp" type="image/webp"><img src="/images/articles/semis-game-3-preview/board-game3-cheat-sheet.png" alt="Game 3 betting odds. Dream at Liberty, 4:30 PM PT: the line is Liberty minus 2.5, the hot fantasy play is Breanna Stewart at 51.6 DraftKings fantasy points per game, the sleeper is Marine Fauthoux, and the Full Court Buckets lean is Dream plus 2.5. Valkyries at Aces, 6:30 PM PT: the line is Aces minus 3.5, the hot play is Gabby Williams at 40.8 fantasy points per game, the sleeper is Tiffany Hayes, and the lean is the Aces on the moneyline." decoding="async" loading="lazy" width="1200" height="1150"></picture><figcaption>Game 3 betting odds: DraftKings lines as listed on ESPN, as of Thursday, Oct. 8, 2026, 11:29 PM PT. Lines may move. Fantasy points per game use DraftKings scoring on Games 1 and 2 from our box scores, checked against ESPN. Leans are opinions. 21+. Gamble responsibly. 1-800-GAMBLER.</figcaption></figure><p>Breanna Stewart is the hottest fantasy play at 51.6 DraftKings points a game, and Gabby Williams leads her series at 40.8. My sleepers: Tiffany Hayes, at 47.2 fantasy points per 36 minutes in just 28 minutes so far, and Marine Fauthoux, the only Liberty player in the plus. My leans, and they're just opinions: Dream +2.5 and the Aces moneyline. Allisha Gray was questionable as of Thursday night, so check before lock. 21+. Gamble responsibly. 1-800-GAMBLER.</p><p class="box-score">Box scores: <a href="https://www.espn.com/wnba/boxscore/_/gameId/401918295" target="_blank" rel="noopener">Dream-Liberty Game 1</a>, <a href="https://www.espn.com/wnba/boxscore/_/gameId/401918297" target="_blank" rel="noopener">Game 2</a>; <a href="https://www.espn.com/wnba/boxscore/_/gameId/401918296" target="_blank" rel="noopener">Valkyries-Aces Game 1</a>, <a href="https://www.espn.com/wnba/boxscore/_/gameId/401918298" target="_blank" rel="noopener">Game 2</a> (ESPN).</p><p class="how-made">How this story was made: Ryan Moalemi picked the story and the angle. Full Court Buckets gathers its own game data and verifies it against official box scores. AI tools drafted it from that data and the sources linked above so it could post the same night, then Ryan reviewed and edited it before publishing. <a href="/how-we-make-full-court-buckets/" target="_blank" rel="noopener">How we make Full Court Buckets</a></p><p class="brand-sign">Full Court Buckets &middot; WNBA News. Analysis. Commentary.</p></article>
 
 </main>
 <footer class="site-footer"><div class="wrap"><p><b>Full Court Buckets</b>. Independent WNBA news, analysis and commentary. Not affiliated with or endorsed by the WNBA.</p><p class="footer-links"><a href="/wnba/">Players</a><a href="/standings/">Standings</a><a href="/about/">About</a><a href="/how-we-make-full-court-buckets/">How we make Full Court Buckets</a><a href="/contact/">Contact</a><a href="/privacy/">Privacy Policy</a><a href="/terms/">Terms of Use</a><a href="/sitemap/">Site map</a><a href="/privacy/" onclick="if(window.googlefc&amp;&amp;googlefc.showRevocationMessage){googlefc.showRevocationMessage();return false;}">Privacy and cookie settings</a><a href="/privacy/#us-state-privacy">Do not sell or share my personal information</a><a class="footer-tiktok" href="https://www.tiktok.com/@fullcourtbuckets" target="_blank" rel="noopener me"><svg class="tiktok-icon" xmlns="http://www.w3.org/2000/svg" viewBox="0 0 24 24" width="16" height="16" aria-hidden="true" focusable="false"><path fill="currentColor" d="M12.525.02c1.31-.02 2.61-.01 3.91-.02.08 1.53.63 3.09 1.75 4.17 1.12 1.11 2.7 1.62 4.24 1.79v4.03c-1.44-.05-2.89-.35-4.2-.97-.57-.26-1.1-.59-1.62-.93-.01 2.92.01 5.84-.02 8.75-.08 1.4-.54 2.79-1.35 3.94-1.31 1.92-3.58 3.17-5.91 3.21-1.43.08-2.86-.31-4.08-1.03-2.02-1.19-3.44-3.37-3.65-5.71-.02-.5-.03-1-.01-1.49.18-1.9 1.12-3.72 2.58-4.96 1.66-1.44 3.98-2.13 6.15-1.72.02 1.48-.04 2.96-.04 4.44-.99-.32-2.15-.23-3.02.37-.63.41-1.11 1.04-1.36 1.75-.21.51-.15 1.07-.14 1.61.24 1.64 1.82 3.02 3.5 2.87 1.12-.01 2.19-.66 2.77-1.61.19-.33.4-.67.41-1.06.1-1.79.06-3.57.07-5.36.01-4.03-.01-8.05.02-12.07z"/></svg>Follow us</a></p><p>&copy; 2026 Full Court Buckets</p></div></footer>
